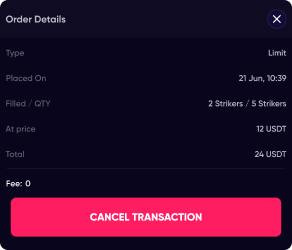
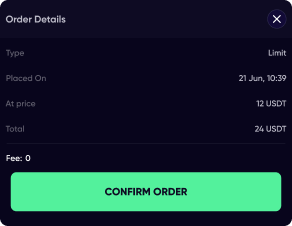
Improvements

diff --git a/components/Landing/LandingSlides/index.js b/components/Landing/LandingSlides/index.js
@@ -52,7 +52,7 @@ const LandingSlides = () => {
                 </App.Flex>
 
                 <App.Flex center sx={{ margin: '65px -30px 0 0' }}>
-                  <Image src="/images/landing/slide-orderbook.png" width={441} height={449} alt="" />
+                  <Image src="/images/landing/slide-orderbook.png" width={463} height={407} alt="" />
                 </App.Flex>
               </App.Flex>
 
@@ -82,10 +82,10 @@ const LandingSlides = () => {
 
               <App.Flex row flex={1}>
                 <App.Flex center sx={{ marginTop: 70 }}>
-                  <Image src="/images/landing/slide-order.png" width={292} height={250} alt="" />
+                  <Image src="/images/landing/slide-order.png" width={292} height={226} alt="" />
                 </App.Flex>
 
-                <App.Flex column gap={8} width={250} sx={{ margin: "165px 0 0 30px" }}>
+                <App.Flex column gap={8} width={250} sx={{ margin: "180px 0 0 30px" }}>
                   <App.Text size={20} weight={600} height={1.2}>Gasless Orders</App.Text>
                   <App.Text color="#B9B8C5" style="italic">Trade with confidence! Create orders without ever having to worry about incurring gas fees.</App.Text>
                 </App.Flex>
@@ -132,13 +132,13 @@ const LandingSlides = () => {
         ) : (
           <App.Flex row fullWidth className={styles.slider}>
             <App.Flex row className={cn(styles.slide, {[styles.active]: slide == 0})}>
-              <App.Flex column align="flex-end" gap={8} width={150} sx={{ margin: "55px -30px 0 0" }}>
+              <App.Flex column align="flex-end" gap={8} width={150} sx={{ margin: "75px -15px 0 0" }}>
                 <App.Text right size={12} weight={600} height={1.2}>Orderbooks</App.Text>
                 <App.Text right size={10} color="#B9B8C5" style="italic">Leverage market depth in real-time. Take advantage of Token and NFT support and resistance points instantly.</App.Text>
               </App.Flex>
 
-              <App.Flex center sx={{ marginRight: -10 }}>
-                <Image src="/images/landing/slide-orderbook.png" width={254} height={289} alt="" />
+              <App.Flex center sx={{ marginRight: '-10px' }}>
+                <Image src="/images/landing/slide-orderbook.png" width={224} height={197} alt="" />
               </App.Flex>
             </App.Flex>
 
@@ -166,10 +166,10 @@ const LandingSlides = () => {
 
             <App.Flex row className={cn(styles.slide, {[styles.active]: slide == 3})}>
               <App.Flex center>
-                <Image src="/images/landing/slide-order.png" width={204} height={174} alt="" />
+                <Image src="/images/landing/slide-order.png" width={204} height={158} alt="" />
               </App.Flex>
 
-              <App.Flex column gap={8} width={150} sx={{ margin: "60px 0 0 10px" }}>
+              <App.Flex column gap={8} width={150} sx={{ margin: "65px 0 0 10px" }}>
                 <App.Text size={12} weight={600} height={1.2}>Gasless Orders</App.Text>
                 <App.Text size={10} color="#B9B8C5" style="italic">Trade with confidence! Create orders without ever having to worry about incurring gas fees.</App.Text>
               </App.Flex>

diff --git a/pages/_app.js b/pages/_app.js
@@ -128,14 +128,30 @@ const RainbowTheme = merge(darkTheme({overlayBlur: 'small'}), {
 
 amplitude.getInstance().init(process.env.NEXT_PUBLIC_AMPLITUDE_API_KEY)
 
-function MyApp({ Component, pageProps, initialData }) {
+function MyApp({ Component, pageProps, initialData, currentPage }) {
   const storeRef = useRef(store(initialData)).current
+
+  const getTitle = () => {
+    switch (currentPage) {
+      case 'landing': return 'Tegro: The CEX-DEX to trade Tokens & NFTs efficiently across chains'
+      default : 'TEGRO | NFT Trading Platform'
+    }
+  }
+
+  const getDescription = () => {
+    switch (currentPage) {
+      case 'landing': return 'Use Tegro: The CEX-DEX to trade Tokens & NFTs easily across chains. Enjoy CEX-like Orderbook Trading in a DEX. Trade tokens like ETH, PEPE, SHIB, USDT and more!'
+      default : 'TEGRO | NFT Trading Platform'
+    }
+  }
+  
   return (
     <WagmiConfig config={wagmiConfig}>
       <RainbowKitProvider chains={chains} theme={RainbowTheme}>
         <Provider store={storeRef}>
           <Head>
-            <title>TEGRO | NFT Trading Platform</title>
+            <title>{getTitle()}</title>
+            <meta content={getDescription()} property="description" key="description" />
           </Head>
 
           <Wrapper>
@@ -159,11 +175,15 @@ MyApp.getInitialProps = async ({ctx}) => {
     isMobile = res?.isMobile
   }
 
+  const { req } = ctx
+  const currentPage = req.url.split('/')[1]
+
   return {
     initialData: {
       blockchain: cookies.blockchain,
       isMobile,
-    }
+    },
+    currentPage,
   }
 }
 
